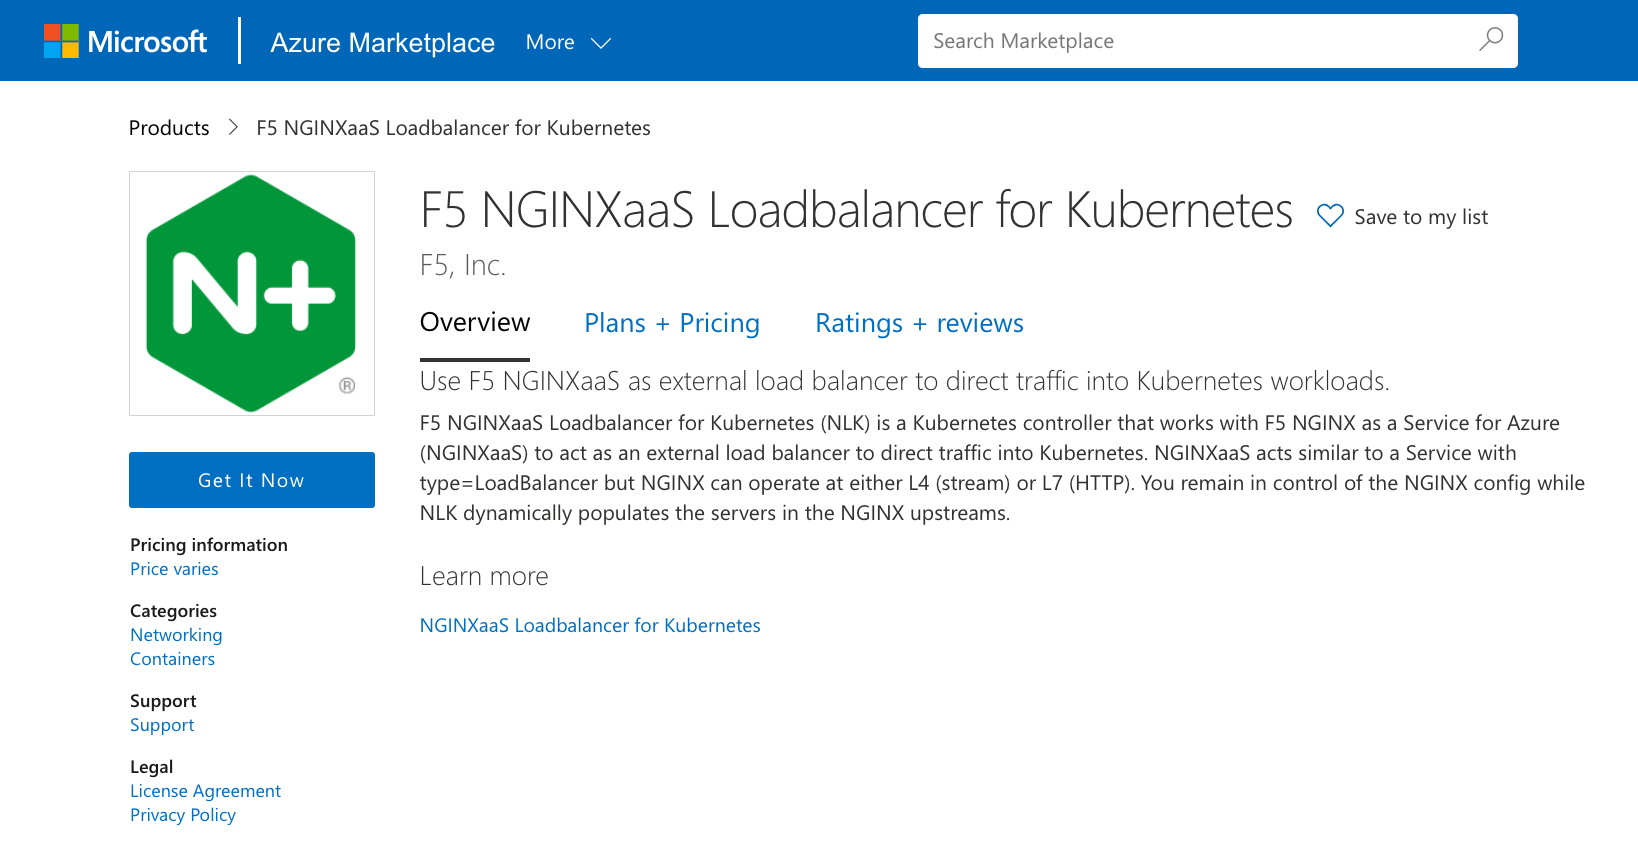
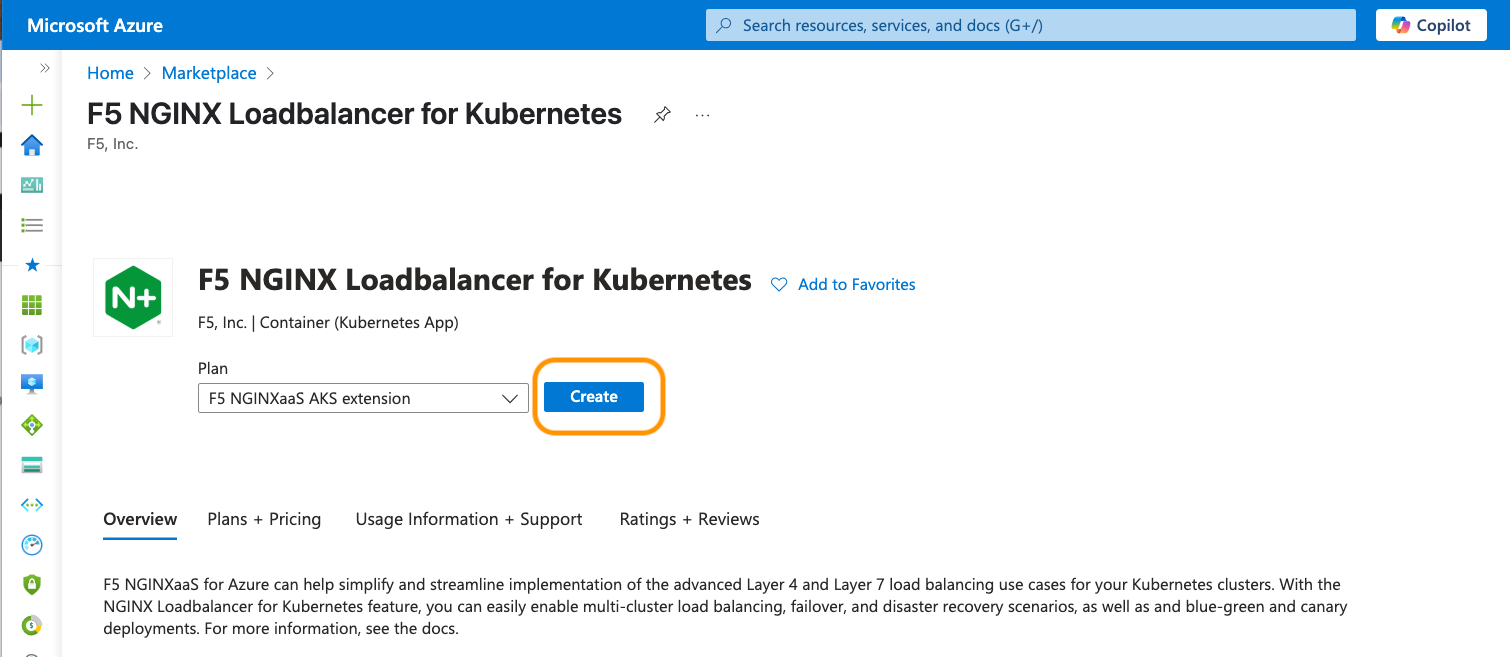
lab12 updates

diff --git a/labs/lab12/readme.md b/labs/lab12/readme.md
@@ -45,7 +45,7 @@ By the end of the lab you will be able to:
 
 The NLK controller uses an API key to send updates to your NGINX instance.  Create a new one following these steps:
 
-1. Using the N4A Web Console, in your N4A deployment, Settings, click on `NGINX API keys`, then `+ New API Key`.
+1. Using the N4A Web Console, in your N4A deployment, Settings, click on `NGINX Loadbalancer for Kubernetes`, then `+ New API Key`.
 
 1. On the right in `Add API Key` sidebar, give it a name.  Optionally change the Expiration Date.  In this example, you will use:
 
@@ -74,7 +74,7 @@ Go the Azure Marketplane, and search for `NGINX`.  Or click on this link to take
 
 1. Click on `Get It Now`, then `Continue`.
 
-  Select the Subscription and Resource Group for the deployment; Select `No` for a new AKS cluster.  You will use your existing clusters from Lab3 for this lab exercise.
+  Select your Subscription and Resource Group for the deployment; Select `No` for a new AKS cluster.  You will use your existing clusters from Lab3 for this lab exercise.
 
 1. Click `Next`, and chose `n4a-aks1` under Cluster Details.
 
@@ -84,11 +84,10 @@ Go the Azure Marketplane, and search for `NGINX`.  Or click on this link to take
     - Check the `Allow minor version updates`
     - Paste your Dataplane API Key value
     - Paste your Dataplane API Endpoint URL **and ADD `nplus` to the end**
-    - Optional: Add new KeyValue pair:  `nlk.config.logLevel` `info`
 
 1. Click `Next`, Review your settings.
 
-    If you scroll to the bottom, you will see your entered data, take a screenshot if you did not SAVE it somewhere.  If you are satisifed with your Settiings, click `Create`.  *You can safely ignore the billing warning, NLK is free of charge at the time of this writing.*
+    If you scroll to the bottom, you will see your entered data, take a screenshot if you did not SAVE it somewhere.  If you are satisifed with your Settiings, click `Create`.
 
     ![NLK Config](media/lab12_nlk-config.png)
 
@@ -311,7 +310,7 @@ NGINX Ingress will then route the requests to the correct Services and Pods.  (N
 
 1. Using curl, see if the NGINX Cafe application works and what Header Values are returned, ready for coffee?
 
-    <img src="media/curl-logo.png" height="20%" width="20%">
+    ![Curl icon](media/curl-icon.png)
 
     ```bash
     curl -I http://cafe.example.com/coffee
@@ -383,7 +382,12 @@ NGINX Ingress will then route the requests to the correct Services and Pods.  (N
 
     ```
 
-1. You can see this using Azure Metrics as well, as shown here.  Notice that you can add the Filter and Splitting, to see the IP Addresses of the NGINX Upstreams.  The Upstream `aks1-nlk-upstreams` and it's IP Addresses should match your Worker Node IPs, and the Port number should match your NodePort `nginx-ingress` Service.
+1. Using Chrome, open `http://cafe.example.com/coffee`, and Right-Click `Inspect`.  Choose `Network`, and then a webpage opject.  You should find the `X-Aks1-Upstream` Header, with the same Worker `NodeIP:NodePort` value.  As you Refresh Chrome, this Header Value will change as Nginx is load balancing to all your AKS workers.
+
+    ![Azure Metrics](media/lab12_chrome-headers.png)
+
+
+1. You can see this using Azure Metrics as well, as shown here.  Select `plus.http.upstreams.peers.state.up`, and then add the Filter for Upstream, and select `peer.address` Value for Splitting, to see the IP:Port Addresses of the NGINX Upstreams.  The Upstream `aks1-nlk-upstreams` and it's IP Addresses should match your Worker Node IPs, and the Port number should match your NodePort `nginx-ingress` Service.
 
     ![Azure Metrics](media/lab12_azure-metrics-3upstreams.png)
 
@@ -460,19 +464,17 @@ If you want to see what the NLK Controller is doing, you have to change the Logg
 
 Now for the actual Scaling Test!!  Does the NLK Controller detect when you `scale your AKS Cluster nodes up/down` (Node Scaling)?  You will test that now.
 
-1. Using the Azure Portal web console, manually scale your `n4a-aks1 nodepool` from 3 to 5 workers.  
+1. Using the Azure Portal web console, manually scale your `n4a-aks1 Node pool` from 3 to 5 workers.  Find your `n4a-aks1` cluster, Select Settings, then Node pools.  Click the `Scale node pool` button, then change it to 5 (or whatever you'd like to test), and click `Apply`.  It will take several minutes for the Workers to join the Cluster.
 
    ![Aks nodes=5](media/lab12_aks-nodes-5.png)
 
-   Watching the NLK Logs, you should see some NLK `Updated messages` scroll by.
-
-1. Open a new Terminal, check with Curl, do you find 5 different IP addresses in the in `X-Aks1-Upstream Header` values?
+1. Open a new Terminal, check again with Curl, do you find 5 different IP addresses in the in `X-Aks1-Upstream Header` values?
 
     ```bash
     while true; do curl -I http://cafe.example.com/coffee; sleep .5; done
     ```
 
-    Confirm - what are the 5 n4a-aks1 Node IPs?  Ask Kubernetes ...
+1. Confirmation - what are the 5 n4a-aks1 NodeIPs?  Ask Kubernetes ...
 
     ```bash
     kubectl config use-context n4a-aks1
@@ -488,8 +490,9 @@ Now for the actual Scaling Test!!  Does the NLK Controller detect when you `scal
       InternalIP:  172.16.10.7
     ```
 
+    Type `Ctrl-C` when you are finished with the curl command.
 
-1. Go back your N4A Metrics Panel, and check the `plus.http.upstream.peer.address` of your Metrics Filter... you should also find 5 IP:NodePort Addresses, one for each upstream/worker.
+1. Go back your N4A Metrics Panel, and check the `peer.address` of your Metrics Split... you should also find 5 IP:NodePort Addresses, one for each upstream/worker.
 
     ![5 upstreams](media/lab12_azure-metrics-5upstreams.png)
 
@@ -520,6 +523,10 @@ As it is the `end of day` business time for your company, the workload demands o
 ### Optional Exercise - NLK Debugging
 
 If you are curious, you can change the NLK Controller LogLevel to `debug`, and see many more details about what NLK is doing.  
+
+1. Using the Azure Portal, Select your `n4a-aks1` cluster, then Settings, Extensions.  Select your `aks1nlk` extension.  Scroll Down and Expand `Configuration settings`, and change the `nlk.config.logLevel` to `debug` and click Save, shown.
+
+    ![NLK Debug](media/lab12_nlk-debug.png)
 
 1. While watching the debug log, Scale your n4a-aks1 cluster back to 3 Nodes.  You will find something like this:
 
